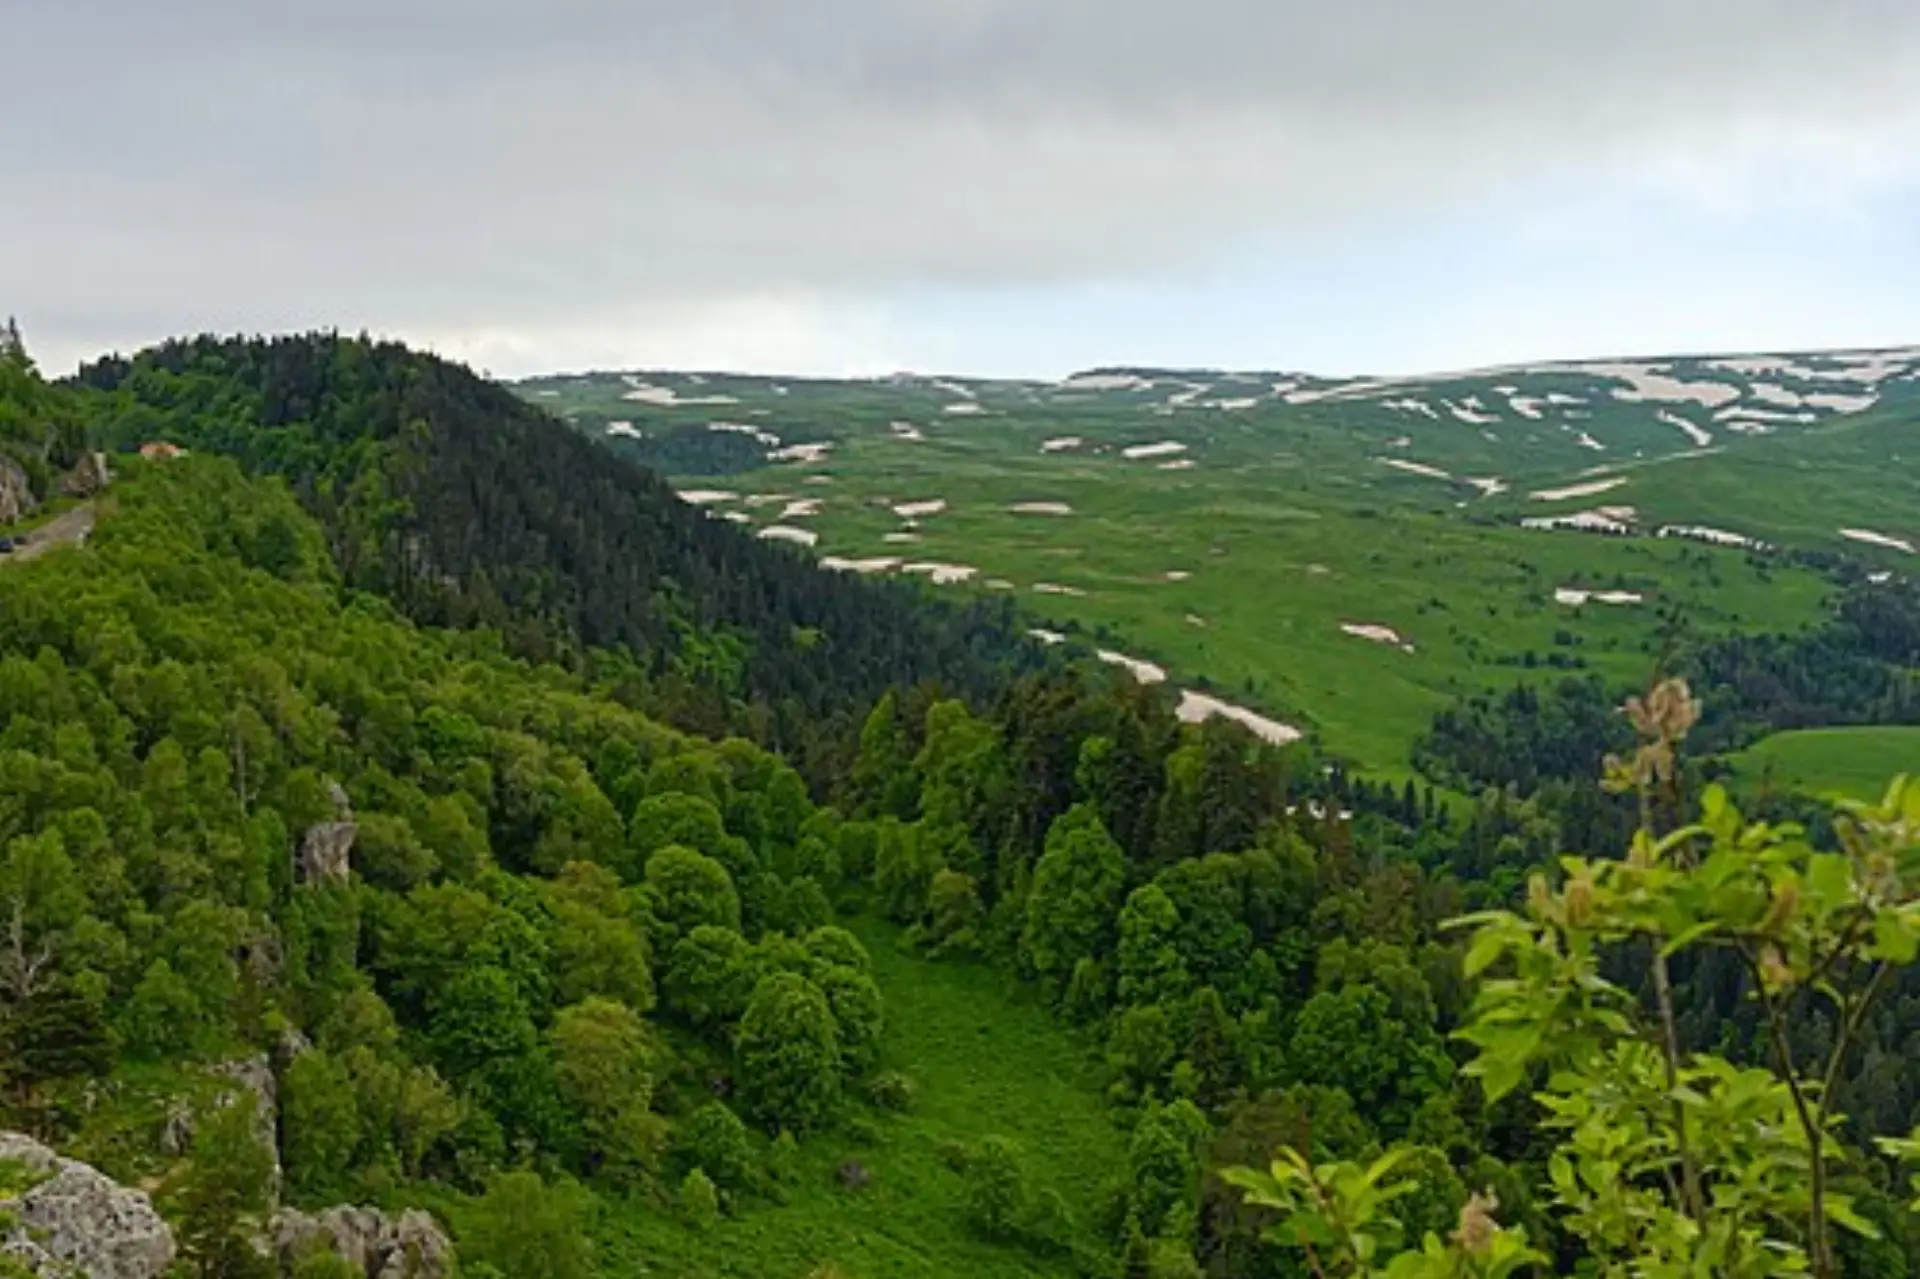
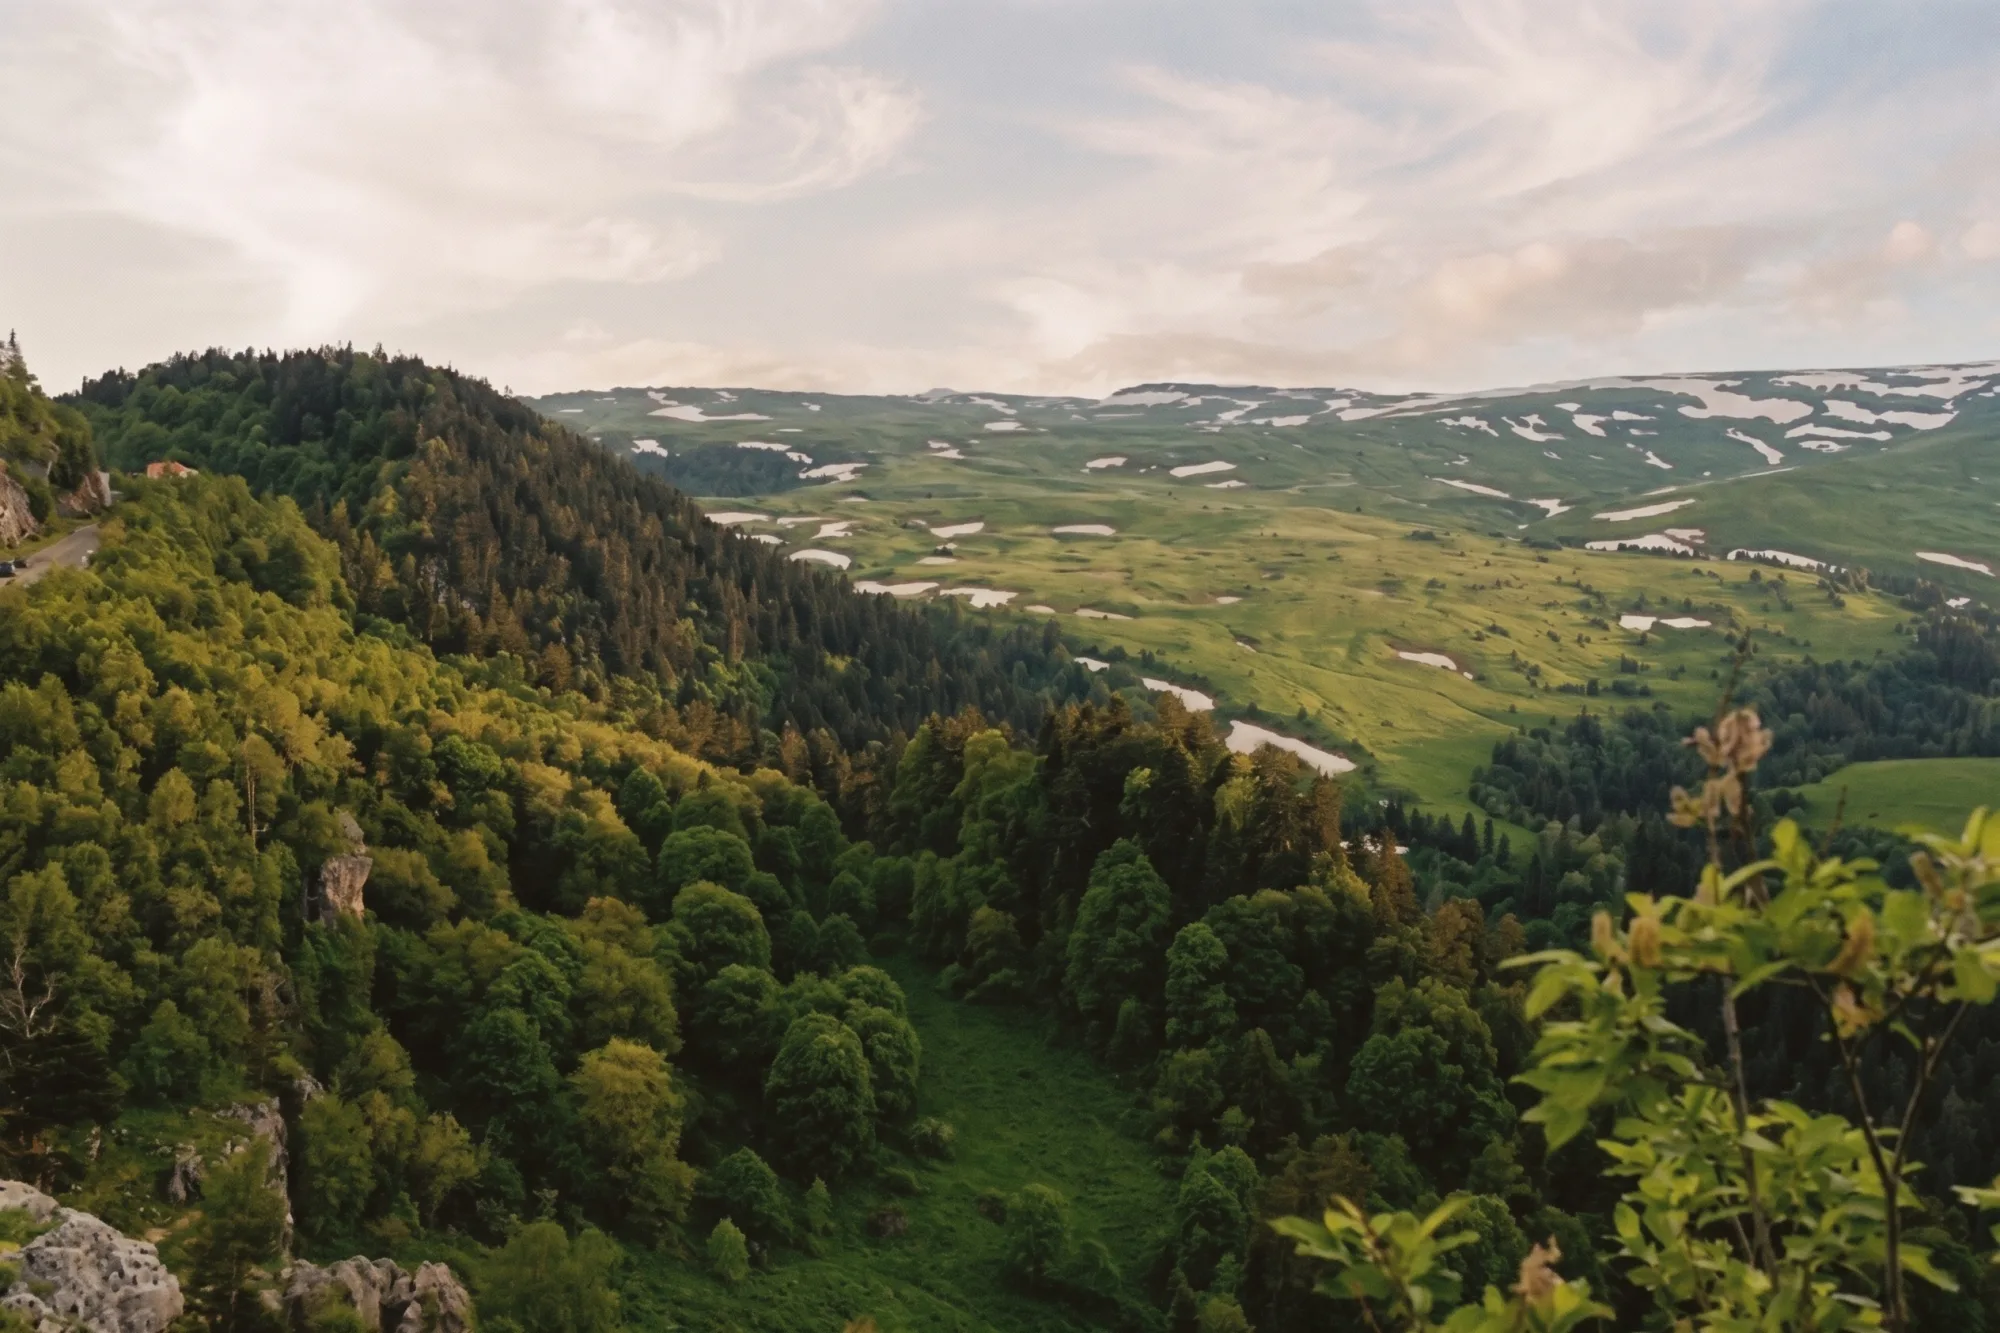
Weave photos for Sochi: stylized places, road frame on intro, side scrim

diff --git a/src/App.jsx b/src/App.jsx
@@ -1583,7 +1583,9 @@ function StickySearch({ shown, query, onOpen }) {
 
 
 // Фон интро: до выбора города — Эльбрус, после — кадр города (пока первое фото его «Направлений», потом общий набор, plan.md §5)
+const roadPhotos = { sochi: 'road-sochi.webp' }
 const heroPhoto = (cityId) => {
+  if (roadPhotos[cityId]) return { '--hero-photo': `url(${import.meta.env.BASE_URL}places/${roadPhotos[cityId]})` }
   const first = cityId && cityPlans(cityId).find((p) => p.local)
   const img = first && placeImage(first.id).split('), ')[0]
   return img ? { '--hero-photo': `${img})` } : undefined
@@ -1705,7 +1707,7 @@ const placePhoto = {
 const newPlacePhotos = {
   'mmk-teriberka': ['andreibas', 'Фотодженика', 'https://gorbilet.ru/blog/puteshestvija/beautiful-roads', `${import.meta.env.BASE_URL}places/mmk-kola.webp`],
   'msk-ring': ['Aleksandr Artiushenko', 'Unsplash', 'https://unsplash.com/photos/a-snowy-landscape-with-a-church-in-the-distance-XGMZxXfY5hQ', 'https://images.unsplash.com/photo-1715252752412-6e39089fe66e?auto=format&rect=120,300,13772,8800&fit=crop&w=1400&q=80'],
-  'sochi-ski': ['Ilnur Kalimullin', 'Unsplash', 'https://unsplash.com/photos/white-snow-covered-mountain-under-white-cloudy-sky-during-daytime-VMrNha7YKGc', 'https://images.unsplash.com/photo-1627109921568-52b5be2a14ab?auto=format&fit=crop&w=1400&q=80'],
+  'sochi-ski': ['Ilnur Kalimullin', 'Unsplash', 'https://unsplash.com/photos/white-snow-covered-mountain-under-white-cloudy-sky-during-daytime-VMrNha7YKGc', `${import.meta.env.BASE_URL}places/sochi-ski.webp`],
   'mmk-khibiny': ['Slava Auchynnikau', 'Unsplash', 'https://unsplash.com/photos/the-sun-is-setting-over-a-snowy-landscape-gy6V59JqqSU', 'https://images.unsplash.com/photo-1711631139867-199196f6d7e8?auto=format&fit=crop&w=1400&q=80'],
   'spb-ladoga': ['Michail Dementiev', 'Unsplash', 'https://unsplash.com/photos/an-aerial-view-of-islands-G_0vKsIdxyU', 'https://images.unsplash.com/photo-1662804118977-481122aa1d10?auto=format&fit=crop&w=1400&q=80'],
   'kgd-castles': ['Ronin', 'Unsplash', 'https://unsplash.com/photos/an-arch-in-a-brick-wall-with-a-forest-in-the-background-BVLsGAXVoQ0', 'https://images.unsplash.com/photo-1678742576371-c7e2f5d38fd7?auto=format&fit=crop&w=1400&q=80'],

diff --git a/src/styles.css b/src/styles.css
@@ -211,8 +211,8 @@ h2 { font-family: var(--display); font-size: var(--fs-lg); font-weight: 600; let
 /* Э1 Хиро — первый экран целиком, тёмный фон вместо фото (фото — позже, plan.md §5).
    Заголовок — главная масса, визард под ним: панелям есть куда раскрываться вниз. */
 .hero { position: relative; isolation: isolate; margin: 0; color: var(--paper);
-  /* Фото — временно, до кадров из общего набора (plan.md §5). Лазурь сверху держит заголовок и визард */
-  background: linear-gradient(180deg, rgb(0 31 38 / .9) 0%, rgb(0 31 38 / .55) 30%, rgb(0 31 38 / 0) 58%, rgb(0 31 38 / .25) 100%), var(--hero-photo, url(/hero/elbrus.jpg)) center 25% / cover no-repeat, var(--ink); }
+  /* Лазурь слева на ширину текста держит заголовок и подсказки, справа фото открыто; лёгкая сверху — под шапку */
+  background: linear-gradient(180deg, rgb(0 31 38 / .35) 0%, rgb(0 31 38 / 0) 20%), linear-gradient(90deg, rgb(0 31 38 / .85) 0%, rgb(0 31 38 / .55) 40%, rgb(0 31 38 / 0) 65%), var(--hero-photo, url(/hero/elbrus.jpg)) center 25% / cover no-repeat, var(--ink); }
 .hero-inner { position: relative; width: 100%; min-height: calc(100svh - 72px - 72px); padding: 24px var(--gutter) 48px; display: grid; align-content: start; gap: 24px; text-align: left; }
 .hero-inner > form { width: 100%; }
 /* Подзаголовок справа от заголовка: так визард стоит выше и панели раскрываются целиком */

diff --git a/project/weave-prompts.md b/project/weave-prompts.md
@@ -1,0 +1,91 @@
+# Промпты для Figma Weave — кадры городов
+
+По `plan.md` §5: по одному кадру на город. В кадре дорога в этом месте, снятая с уровня глаз. Этот же кадр идёт широко на интро и кропом в «Направления». Шаблон общий, меняется только блок `PLACE`. Порядок работы: сначала Сочи до результата, потом остальные пять.
+
+## Настройки
+
+- Формат **16:9**, на выходе от 2560 px по ширине. Важное держать в центральной трети: для «Направлений» кроп идёт до 4:3.
+- Нижняя треть кадра спокойная: асфальт, обочина. Поверх интро лежит визард.
+- Удачный первый кадр (Сочи) подать как style reference для остальных, если модель это умеет. Так серия соберётся в одну съёмку.
+
+## Шаблон
+
+```
+Eye-level photograph from the side of an empty two-lane road, [PLACE].
+The road leads from the lower foreground into the distance, slightly off-center.
+No cars, no people, no text, no road signs with readable words.
+Late afternoon soft light, low sun from the side, long gentle shadows.
+Muted natural palette, slightly lifted blacks, fine film grain, Kodak Portra 400 look.
+Shot on 35mm lens, f/5.6, deep focus, documentary travel photography, calm and spacious.
+Quiet, uncluttered lower third (asphalt and roadside) for UI overlay.
+```
+
+Negative (если есть поле):
+
+```
+cars, people, text, watermark, logo, HDR, oversaturated, fisheye, drone shot, aerial view, motion blur, illustration, 3d render
+```
+
+## PLACE по городам
+
+| Город | PLACE |
+|---|---|
+| **Сочи** (первым) | `a coastal serpentine near Sochi, Black Sea on one side, green subtropical mountains of the Caucasus rising behind, cypress trees along the road` |
+| Петербург | `a road along the Gulf of Finland near Saint Petersburg, pine trees and granite boulders by the shore, pale northern sky` |
+| Москва | `a country road outside Moscow through birch forest and open fields, a small dacha village in the distance` |
+| Калининград | `a road through the Curonian Spit near Kaliningrad, tall pines and sand dunes, glimpse of the Baltic Sea` |
+| Мурманск | `a road across the tundra near Murmansk, low rocky hills with patches of snow, sparse dwarf birches, cold clear light` |
+| Казань | `a road above the Volga river near Kazan, wide water and gentle green hills, a white kremlin silhouette far on the horizon` |
+
+## Если не выходит
+
+- Получилась открытка, слишком ярко → добавить `overcast hazy light, understated` и убрать `low sun`.
+- Модель рисует машину → в начало: `completely empty road`.
+- Кадр не получается за 3–4 прогона → берём настоящее фото дороги и прогоняем его через ту же обработку (image-to-image, сила ~0.4 с этим же промптом).
+
+## Стилизация мест
+
+Для фото в `public/places/`. Это виды, а не дороги, поэтому их не переснимаем: сохраняем пейзаж и меняем только обработку. Модель — Nano Banana 2.1 (edit), 2K, Default aspect. Исходник подаём по ссылке `raw.githubusercontent.com/.../public/places/<id>.webp`: Wikimedia Weave не скачивает. Меняется только `[PLACE]`.
+
+```
+Keep this exact landscape, composition and viewpoint: [PLACE]. Only change the photographic treatment: late afternoon soft light, low sun from the side, gentle long shadows. Muted natural palette, less saturated greens, slightly lifted blacks, softer sky, fine film grain, Kodak Portra 400 look, documentary travel photography, calm and spacious. Do not add any objects, people, cars or text.
+```
+
+Первый прогон: `sochi-ritsa` → `project/img/weave/sochi-ritsa-v1.jpg`. Пейзаж сохранён, свет тёплый, но зелень сочная, зерна почти нет. Если нужно сильнее — добавить `strongly muted greens, faded shadows, visible film grain`.
+
+## Порядок работы (для агента)
+
+### 1. Откуда брать исходник
+
+Фото места на сайте берётся так (`placeImage` в `src/App.jsx`): если `id` есть в `newPlacePhotos`, то берётся оттуда (4-й элемент — URL), иначе `public/places/<id>.webp`. **Стилизовать надо ту картинку, которую видно на сайте**, — сначала проверь `newPlacePhotos`.
+
+| Источник | Как подать в Weave |
+|---|---|
+| `public/places/<id>.webp` (закоммичен) | `https://raw.githubusercontent.com/timurworkout/concepts-hero/main/public/places/<id>.webp` — работает |
+| Unsplash (`images.unsplash.com/...`) | URL из `newPlacePhotos` как есть, `w=2000` вместо `w=1400` |
+| Wikimedia (`upload.wikimedia.org`, `commons...`) | **Не работает** — Weave падает с «Could not generate images». Скачать к себе, положить в `project/img/weave/src/<id>.jpg`, закоммитить и запушить, подать raw-ссылкой GitHub |
+| Окно загрузки `weave_upload_asset` | В этом клиенте не показывается — не использовать |
+
+Не закоммиченный файл raw-ссылкой не достать: сначала push.
+
+### 2. Запуск
+
+1. `weave_find_model` не нужен: Nano Banana 2.1 — `id bebebed5-50c1-4701-98b3-86929db21585`. Параметры: `resolution: 2K`, `output_format: jpeg`; места — `aspect_ratio: Default`, дороги — `16:9`.
+2. Вызов без `acknowledgedCost` — бесплатная цена (2K = 10 кредитов). Каждый запуск — одобрение пользователя через AskUserQuestion, даже повтор.
+3. Опрос `weave_get_model_run_output` повторными вызовами (`sleep` в Bash заблокирован). Генерация ~1–2 минуты. Упавшие запуски кредиты, похоже, не списывают.
+
+### 3. Куда класть и как называть
+
+- Сырые генерации: `project/img/weave/<id>-v<N>.jpg` — `<id>` как в `src/data.js` / `App.jsx` (`sochi-ritsa`), `N` — номер попытки. Дороги: `project/img/weave/road-<city>-v<N>.jpg` (`road-sochi-v1`). Исходники для GitHub: `project/img/weave/src/<id>.jpg`.
+- После каждой генерации — дописать строку в журнал ниже и отправить картинку пользователю (SendUserFile).
+- Утверждённое в сайт: сжать в webp ширина 2000 (`cwebp -q 82 -resize 2000 0`) → `public/places/<id>.webp` (дороги — `public/places/road-<city>.webp`); если `id` был в `newPlacePhotos` — убрать оттуда запись, чтобы брался локальный файл, и обновить автора в `placePhoto` на «Weave по фото <автор>». Проверить в браузере.
+
+### Журнал
+
+| Файл | Исходник | Промпт | Итог |
+|---|---|---|---|
+| `sochi-ritsa-v1.jpg` | `public/places/sochi-ritsa.webp` (raw GitHub) | стилизация, базовый | пейзаж сохранён, зелень сочная, зерна мало — отклонено |
+| `sochi-ritsa-v2.jpg` | `public/places/sochi-ritsa.webp` (raw GitHub) | стилизация + `strongly muted greens, faded shadows, visible film grain` | утверждено, на сайте |
+| `sochi-ski-v1.jpg` | Unsplash из `newPlacePhotos` (w=2000) + реф `sochi-ritsa-v2` | стилизация «match the color grading of the second image» | утверждено, на сайте |
+| `sochi-lagonaki-v1.jpg` | `public/places/sochi-lagonaki.webp` (raw GitHub) + реф `sochi-ritsa-v2` | то же | утверждено, на сайте |
+| `road-sochi-v1.jpg` | без исходника, реф `sochi-ritsa-v2` | дорога Сочи + «match the color grading» | утверждено, на заставке |

diff --git a/CLAUDE.md b/CLAUDE.md
@@ -25,6 +25,7 @@ White space: «Машина ждёт тебя, а время поездки ос
     - Экраны, состояния и данные — в коде: `src/App.jsx`, `src/data.js`. Отдельной спецификации пока нет, соберём, когда устоится новый флоу
     - `tone-of-voice.md` — тон текстов
     - `animations.md` — анимации и motion-токены
+    - `weave-prompts.md` — генерация фото в Figma Weave: промпты, порядок работы, журнал; сырые генерации в `img/weave/`
     - `img/references/` — рефы: `references.md` с разбором и скриншоты по слоям (`layout/`, `typo & color/`, `style/`, `photos/`); остальное в `img/` — картинки. Где искать рефы — `course/ref-sources.md` (локально, не в репозитории)
   - **Фон** — полезно для контекста, но может отставать от решений выше:
     - `research.md` — ресерч рынка и сервисов
